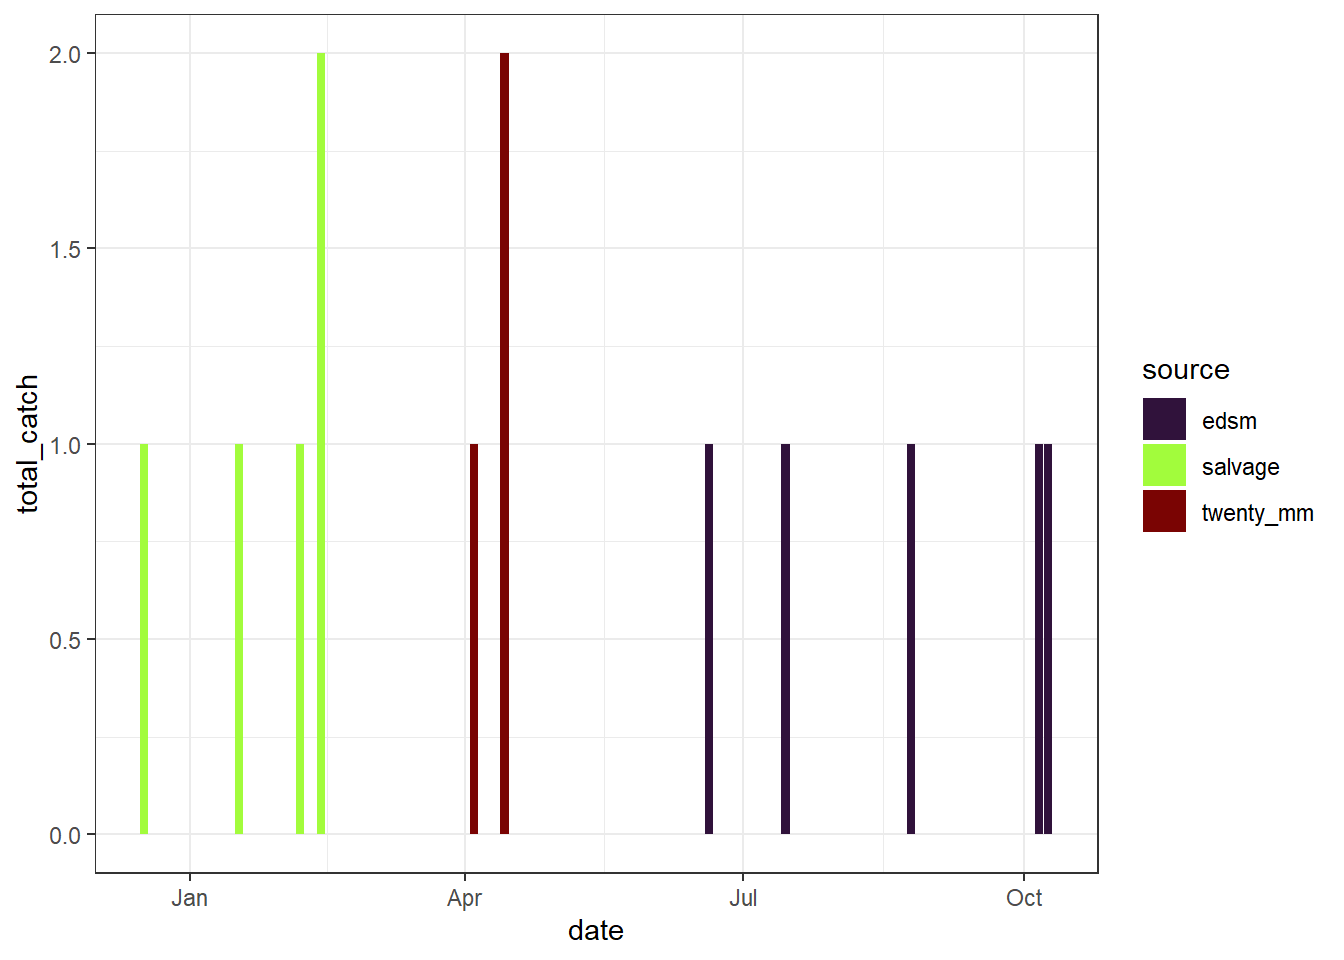
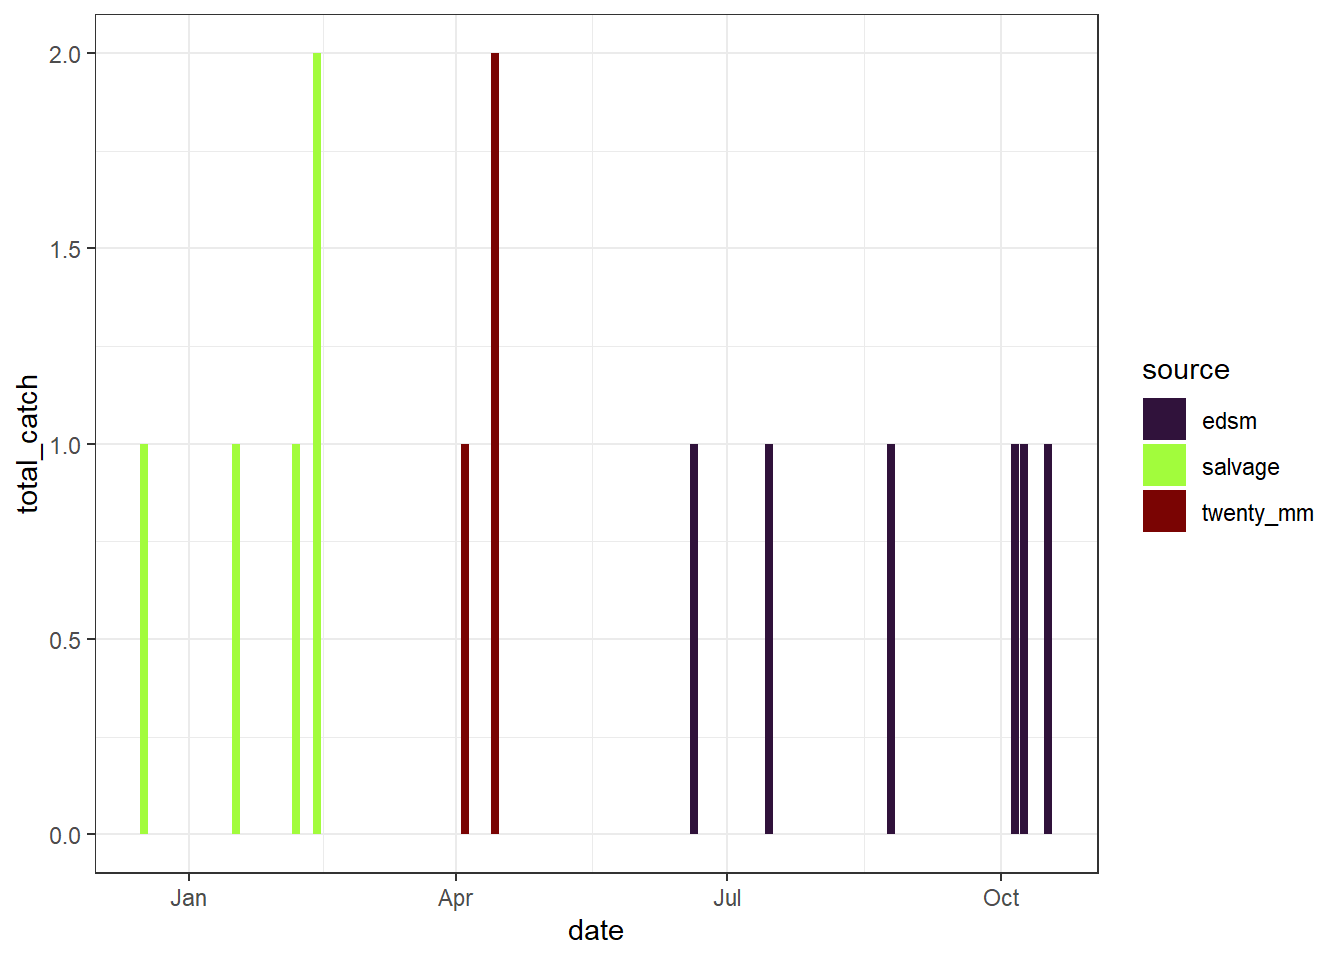
Updated with release information and some longfin smelt thoughts, updated figures

diff --git a/smt-assessment-v1.html b/smt-assessment-v1.html
@@ -63,7 +63,7 @@ ul.task-list li input[type="checkbox"] {
 <section id="preliminary-data-assessment-for-delta-operations-on-esa-and-cesa-listed-osmerids" class="level2">
 <h2 class="anchored" data-anchor-id="preliminary-data-assessment-for-delta-operations-on-esa-and-cesa-listed-osmerids">PRELIMINARY DATA: Assessment for Delta Operations on ESA and CESA-listed Osmerids</h2>
 <p><em>BDO Science Division</em></p>
-<p>Last updated: <em>October 15, 2025</em></p>
+<p>Last updated: <em>October 23, 2025</em></p>
 <section id="executive-summary" class="level3">
 <h3 class="anchored" data-anchor-id="executive-summary">Executive Summary</h3>
 <p>Section 3.13.3.4.1 of the Proposed Action and Section 8.1.4. of the Incidental Take Permit provide that during Old and Middle River (OMR) Management, the California Department of Water Resources, in coordination with Reclamation, shall provide State Water Project (SWP) and Central Valley Project (CVP) operational outlooks and assessments on a weekly basis to Water Operations Management Team (WOMT).</p>
@@ -88,25 +88,132 @@ ul.task-list li input[type="checkbox"] {
 <h5 class="anchored" data-anchor-id="current-status">Current Status</h5>
 <ul>
 <li><p><strong>Delta Smelt Life Stages</strong>: Juvenile</p></li>
-<li><p>The <strong>abundance estimate</strong> as of the week of October 6–10, 2025 was: 1149 (95% CL: 189 to 3866)</p></li>
-<li><p>Detections:</p>
-<ul>
-<li>A total of 4 (0 marked and 0 unmarked) adult Delta Smelt have been detected this water year.</li>
-<li>The most recent detection(s) of 1 Delta Smelt occurred on Oct 09, 2025 in West</li>
-<li>Delta Smelt Salvage totals 5 Delta Smelt, and the cumulative seasonal salvage is 17</li>
-</ul></li>
+<li><p>The <strong>abundance estimate</strong> as of the week of October 13–17, 2025 was: 818 (95% CL: 82 to 3340)</p></li>
+<li><p>A total of 60,000 hatchery Delta Smelt have been released for WY 2026 (<a href="#tbl-ds-releases" class="quarto-xref">Table&nbsp;1</a>). The most recent releases of 30,000 fish occurred in Belden’s Landing (Suisun Marsh) on Nov 05, 2025.</p></li>
+<li><p>A total of 4 adult Delta Smelt have been detected this water year. See <a href="#fig-ds-map" class="quarto-xref">Figure&nbsp;1</a> for spatial distribution and <a href="#fig-ds-catch" class="quarto-xref">Figure&nbsp;2</a> for temporal distribution.</p></li>
+<li><p>Delta Smelt Salvage totals 5 Delta Smelt, and the cumulative seasonal salvage is 17.</p></li>
 </ul>
-<section id="context" class="level6">
-<h6 class="anchored" data-anchor-id="context">Context</h6>
+<section id="notes" class="level6">
+<h6 class="anchored" data-anchor-id="notes">Notes</h6>
 <ul>
 <li>Since there are few recent detections of Delta Smelt, the Smelt Monitoring Team’s capacity to estimate where they are within the Delta is limited.</li>
-<li>A total of 100,000 hatchery Delta Smelt have been released for WY 2026 (Table 1). The most recent releases of 20,000 fish occurred in Lookout Slough on Nov 15, 2025.</li>
+<li>See <a href="https://www.cbr.washington.edu/sacramento/workgroups/delta_smelt.html">SacPAS SMT Page</a> for additional details on detection in surveys and salvage.</li>
 <li>Historical salvage trends can be found at: <a href="https://www.cbr.washington.edu/sacramento/data/query_salvage_hrt.html">SacPAS Salvage Timing</a></li>
 </ul>
 </section>
-<section id="table-1.-release-summary" class="level6">
-<h6 class="anchored" data-anchor-id="table-1.-release-summary">Table 1. Release Summary</h6>
-<p>Is release table able to be made public yet?</p>
+<section id="table-1.-delta-smelt-release-summary" class="level6">
+<h6 class="anchored" data-anchor-id="table-1.-delta-smelt-release-summary">Table 1. Delta Smelt Release Summary</h6>
+<div class="cell">
+<div id="tbl-ds-releases" class="cell quarto-float quarto-figure quarto-figure-center anchored">
+<figure class="quarto-float quarto-float-tbl figure">
+<figcaption class="quarto-float-caption-top quarto-float-caption quarto-float-tbl" id="tbl-ds-releases-caption-0ceaefa1-69ba-4598-a22c-09a6ac19f8ca">
+Table&nbsp;1: Delta Smelt Water Year 2026 Releases
+</figcaption>
+<div aria-describedby="tbl-ds-releases-caption-0ceaefa1-69ba-4598-a22c-09a6ac19f8ca">
+<div class="cell-output-display">
+<table class="do-not-create-environment cell caption-top table table-sm table-striped small">
+<colgroup>
+<col style="width: 10%">
+<col style="width: 10%">
+<col style="width: 25%">
+<col style="width: 32%">
+<col style="width: 9%">
+<col style="width: 11%">
+</colgroup>
+<thead>
+<tr class="header">
+<th style="text-align: left;">Release Event</th>
+<th style="text-align: left;">Release Date</th>
+<th style="text-align: left;">Release Site</th>
+<th style="text-align: left;">Release methods</th>
+<th style="text-align: left;">Release tag</th>
+<th style="text-align: left;">approx. # fish</th>
+</tr>
+</thead>
+<tbody>
+<tr class="odd">
+<td style="text-align: left;">1a</td>
+<td style="text-align: left;">11/4/2025</td>
+<td style="text-align: left;">Belden’s Landing (Suisun Marsh)</td>
+<td style="text-align: left;">Fish Truck (large-scale, hard release)</td>
+<td style="text-align: left;">None</td>
+<td style="text-align: left;">30,000+</td>
+</tr>
+<tr class="even">
+<td style="text-align: left;">1b</td>
+<td style="text-align: left;">11/5/2025</td>
+<td style="text-align: left;">Belden’s Landing (Suisun Marsh)</td>
+<td style="text-align: left;">Fish Truck (large-scale, hard release)</td>
+<td style="text-align: left;">None</td>
+<td style="text-align: left;">30,000+</td>
+</tr>
+<tr class="odd">
+<td style="text-align: left;">2a</td>
+<td style="text-align: left;">12/2/2025</td>
+<td style="text-align: left;">Belden’s Landing (Suisun Marsh)</td>
+<td style="text-align: left;">Fish Truck (large-scale, hard release)</td>
+<td style="text-align: left;">None</td>
+<td style="text-align: left;">30,000+</td>
+</tr>
+<tr class="even">
+<td style="text-align: left;">2b</td>
+<td style="text-align: left;">12/3/2025</td>
+<td style="text-align: left;">Belden’s Landing (Suisun Marsh)</td>
+<td style="text-align: left;">Fish Trailers (large-scale, hard release)</td>
+<td style="text-align: left;">None</td>
+<td style="text-align: left;">30,000+</td>
+</tr>
+<tr class="odd">
+<td style="text-align: left;">3a</td>
+<td style="text-align: left;">12/16/2025</td>
+<td style="text-align: left;">Sandy Beach (Rio Vista)</td>
+<td style="text-align: left;">Fish Truck (large-scale, hard release)</td>
+<td style="text-align: left;">None</td>
+<td style="text-align: left;">20,000+</td>
+</tr>
+<tr class="even">
+<td style="text-align: left;">3b</td>
+<td style="text-align: left;">12/17/2025</td>
+<td style="text-align: left;">Sandy Beach (Rio Vista)</td>
+<td style="text-align: left;">Fish Truck (large-scale, hard release)</td>
+<td style="text-align: left;">None</td>
+<td style="text-align: left;">20,000+</td>
+</tr>
+<tr class="odd">
+<td style="text-align: left;">4a*</td>
+<td style="text-align: left;">1/13/2026</td>
+<td style="text-align: left;">Lookout Slough (Cache Slough)</td>
+<td style="text-align: left;">Fish Truck (large-scale, hard release)</td>
+<td style="text-align: left;">None</td>
+<td style="text-align: left;">20,000+</td>
+</tr>
+<tr class="even">
+<td style="text-align: left;">4b*</td>
+<td style="text-align: left;">1/14/2026</td>
+<td style="text-align: left;">Lookout Slough (Cache Slough)</td>
+<td style="text-align: left;">Fish Truck (large-scale, hard release</td>
+<td style="text-align: left;">None</td>
+<td style="text-align: left;">20,000+</td>
+</tr>
+<tr class="odd">
+<td style="text-align: left;">Total</td>
+<td style="text-align: left;">NA</td>
+<td style="text-align: left;">NA</td>
+<td style="text-align: left;">NA</td>
+<td style="text-align: left;">NA</td>
+<td style="text-align: left;">160,000+**</td>
+</tr>
+</tbody>
+</table>
+</div>
+</div>
+</figure>
+</div>
+</div>
+<ul>
+<li>*Release event 4 is tentative for planning purposes if extra fish are available and need to be released</li>
+<li>**Total does not account for the tentative release event 4.</li>
+</ul>
 </section>
 <section id="figure-1.-distribution" class="level6">
 <h6 class="anchored" data-anchor-id="figure-1.-distribution">Figure 1. Distribution</h6>
@@ -125,13 +232,19 @@ Figure&nbsp;1: Delta Smelt Distribution
 </div>
 </div>
 </div>
+<p><strong>Do we still want catch tables or just to modify tables on SacPAS - recent (2 wk) and water year totals</strong></p>
 </section>
 <section id="table-2.-total-catch-by-survey" class="level6">
 <h6 class="anchored" data-anchor-id="table-2.-total-catch-by-survey">Table 2. Total Catch by survey</h6>
 <div class="cell">
+<div id="tbl-catch-all" class="cell quarto-float quarto-figure quarto-figure-center anchored">
+<figure class="quarto-float quarto-float-tbl figure">
+<figcaption class="quarto-float-caption-top quarto-float-caption quarto-float-tbl" id="tbl-catch-all-caption-0ceaefa1-69ba-4598-a22c-09a6ac19f8ca">
+Table&nbsp;2: Delta Smelt Water Year Totals by Life Stage
+</figcaption>
+<div aria-describedby="tbl-catch-all-caption-0ceaefa1-69ba-4598-a22c-09a6ac19f8ca">
 <div class="cell-output-display">
-<table class="caption-top table table-sm table-striped small">
-<caption>Delta Smelt Water Year Totals by Life Stage</caption>
+<table class="do-not-create-environment cell caption-top table table-sm table-striped small">
 <thead>
 <tr class="header">
 <th style="text-align: left;">source</th>
@@ -145,7 +258,7 @@ Figure&nbsp;1: Delta Smelt Distribution
 <td style="text-align: left;">edsm</td>
 <td style="text-align: left;">West</td>
 <td style="text-align: left;">Juvenile</td>
-<td style="text-align: right;">5</td>
+<td style="text-align: right;">6</td>
 </tr>
 <tr class="even">
 <td style="text-align: left;">salvage</td>
@@ -175,6 +288,9 @@ Figure&nbsp;1: Delta Smelt Distribution
 </table>
 </div>
 </div>
+</figure>
+</div>
+</div>
 </section>
 <section id="figure-2.-plot-of-catch-over-time" class="level6">
 <h6 class="anchored" data-anchor-id="figure-2.-plot-of-catch-over-time">Figure 2. Plot of catch over time</h6>
@@ -196,36 +312,45 @@ Figure&nbsp;2: Delta Smelt Catch Over Time
 </section>
 <section id="environmental-surrogates" class="level5">
 <h5 class="anchored" data-anchor-id="environmental-surrogates">Environmental Surrogates</h5>
+<ul>
+<li>We could also pull the SacPAS plots if we want for each relevant metric (or create our own)</li>
+</ul>
 <section id="first-flush" class="level6">
 <h6 class="anchored" data-anchor-id="first-flush">First Flush</h6>
 <ul>
-<li><strong>FPT Flow (3-day average)</strong>: 13647 cfs as of Oct 14, 2025</li>
-<li><strong>FPT Turbidity (3-day average)</strong>: 4.58 FNU as of Oct 14, 2025</li>
+<li><strong>Threshold</strong>: 3-day avg FPT flow ≥ 25,000 cfs and 3-day avg FPT turbidity ≥ 50 FNU<br>
+</li>
+<li><strong>FPT Flow (3-day average)</strong>: 11917 cfs as of Oct 22, 2025</li>
+<li><strong>FPT Turbidity (3-day average)</strong>: 5.05 FNU as of Oct 22, 2025</li>
 </ul>
 </section>
 <section id="adult-entrainment-turbidity-bridge" class="level6">
 <h6 class="anchored" data-anchor-id="adult-entrainment-turbidity-bridge">Adult Entrainment (Turbidity Bridge)</h6>
 <ul>
-<li><p><strong>OBI Turbidity</strong>: 1.46, 3.64, 7.9 FNU as of Oct 14, 2025</p></li>
-<li><p><strong>HOL Turbidity</strong>: 0.99, 0.86, 1.03 FNU as of Oct 14, 2025</p></li>
-<li><p><strong>OSJ Turbidity</strong>: 4.27, 4.27, 4.27 FNU as of Oct 14, 2025</p></li>
-<li><p>See <a href="https://www.baydeltalive.com/current_conditions/constituent-tracker-turbidity">Bay-Delta Live</a> for recent Delta-wide turbidity conditions.</p></li>
-<li><p>Let’s link to wind plot on the other SacPAS SMT page.</p></li>
+<li><strong>Threshold</strong>: Turbidity ≥ 12 FNU at OBI, HOL and OSJ</li>
+<li><strong>OBI Turbidity</strong>: 1.32, 1.47, 1.65 FNU as of Oct 22, 2025</li>
+<li><strong>HOL Turbidity</strong>: 0.95, 0.92, 1.95 FNU as of Oct 22, 2025</li>
+<li><strong>OSJ Turbidity</strong>: 2.67, 2.85, 3.6 FNU as of Oct 22, 2025</li>
+<li><u><strong>Offramp Adult/Onramp Larval and Juvenile Protections</strong> when RVB or SJJ &gt; 12°C</u></li>
+<li><strong>RVB temperature (3-day average)</strong>: 16.96°C as of Oct 22, 2025</li>
+<li><strong>SJJ temperature (in the future)</strong>:</li>
+</ul>
+<ul>
+<li>See <a href="https://www.baydeltalive.com/current_conditions/constituent-tracker-turbidity">Bay-Delta Live</a> for recent Delta-wide turbidity conditions.</li>
+<li>Let’s link to wind plot on the other SacPAS SMT page.</li>
 </ul>
 </section>
 <section id="larvaljuvenile-entrainment" class="level6">
 <h6 class="anchored" data-anchor-id="larvaljuvenile-entrainment">Larval/Juvenile Entrainment</h6>
 <ul>
-<li><strong>RVB temperature (3-day average)</strong>: 17.63 degC as of Oct 14, 2025</li>
-<li><strong>SJJ temperature (in the future)</strong>:</li>
+<li><strong>Threshold</strong>: Secchi Depth &gt; 1m</li>
 <li><strong>12-station South Delta Secchi Depth</strong>: The most recent average secchi depth was 0.76m as of May 01, 2026</li>
 </ul>
 </section>
-<section id="end-of-omr-management" class="level6">
-<h6 class="anchored" data-anchor-id="end-of-omr-management">End of OMR Management</h6>
+<section id="end-of-smelt-omr-management" class="level6">
+<h6 class="anchored" data-anchor-id="end-of-smelt-omr-management">End of Smelt OMR Management</h6>
 <ul>
-<li><p>Not relevant</p></li>
-<li><p>Include plot of CLC or link to CLC when relevant</p></li>
+<li>Not relevant</li>
 </ul>
 </section>
 <section id="zone-of-influenceptm" class="level6">
